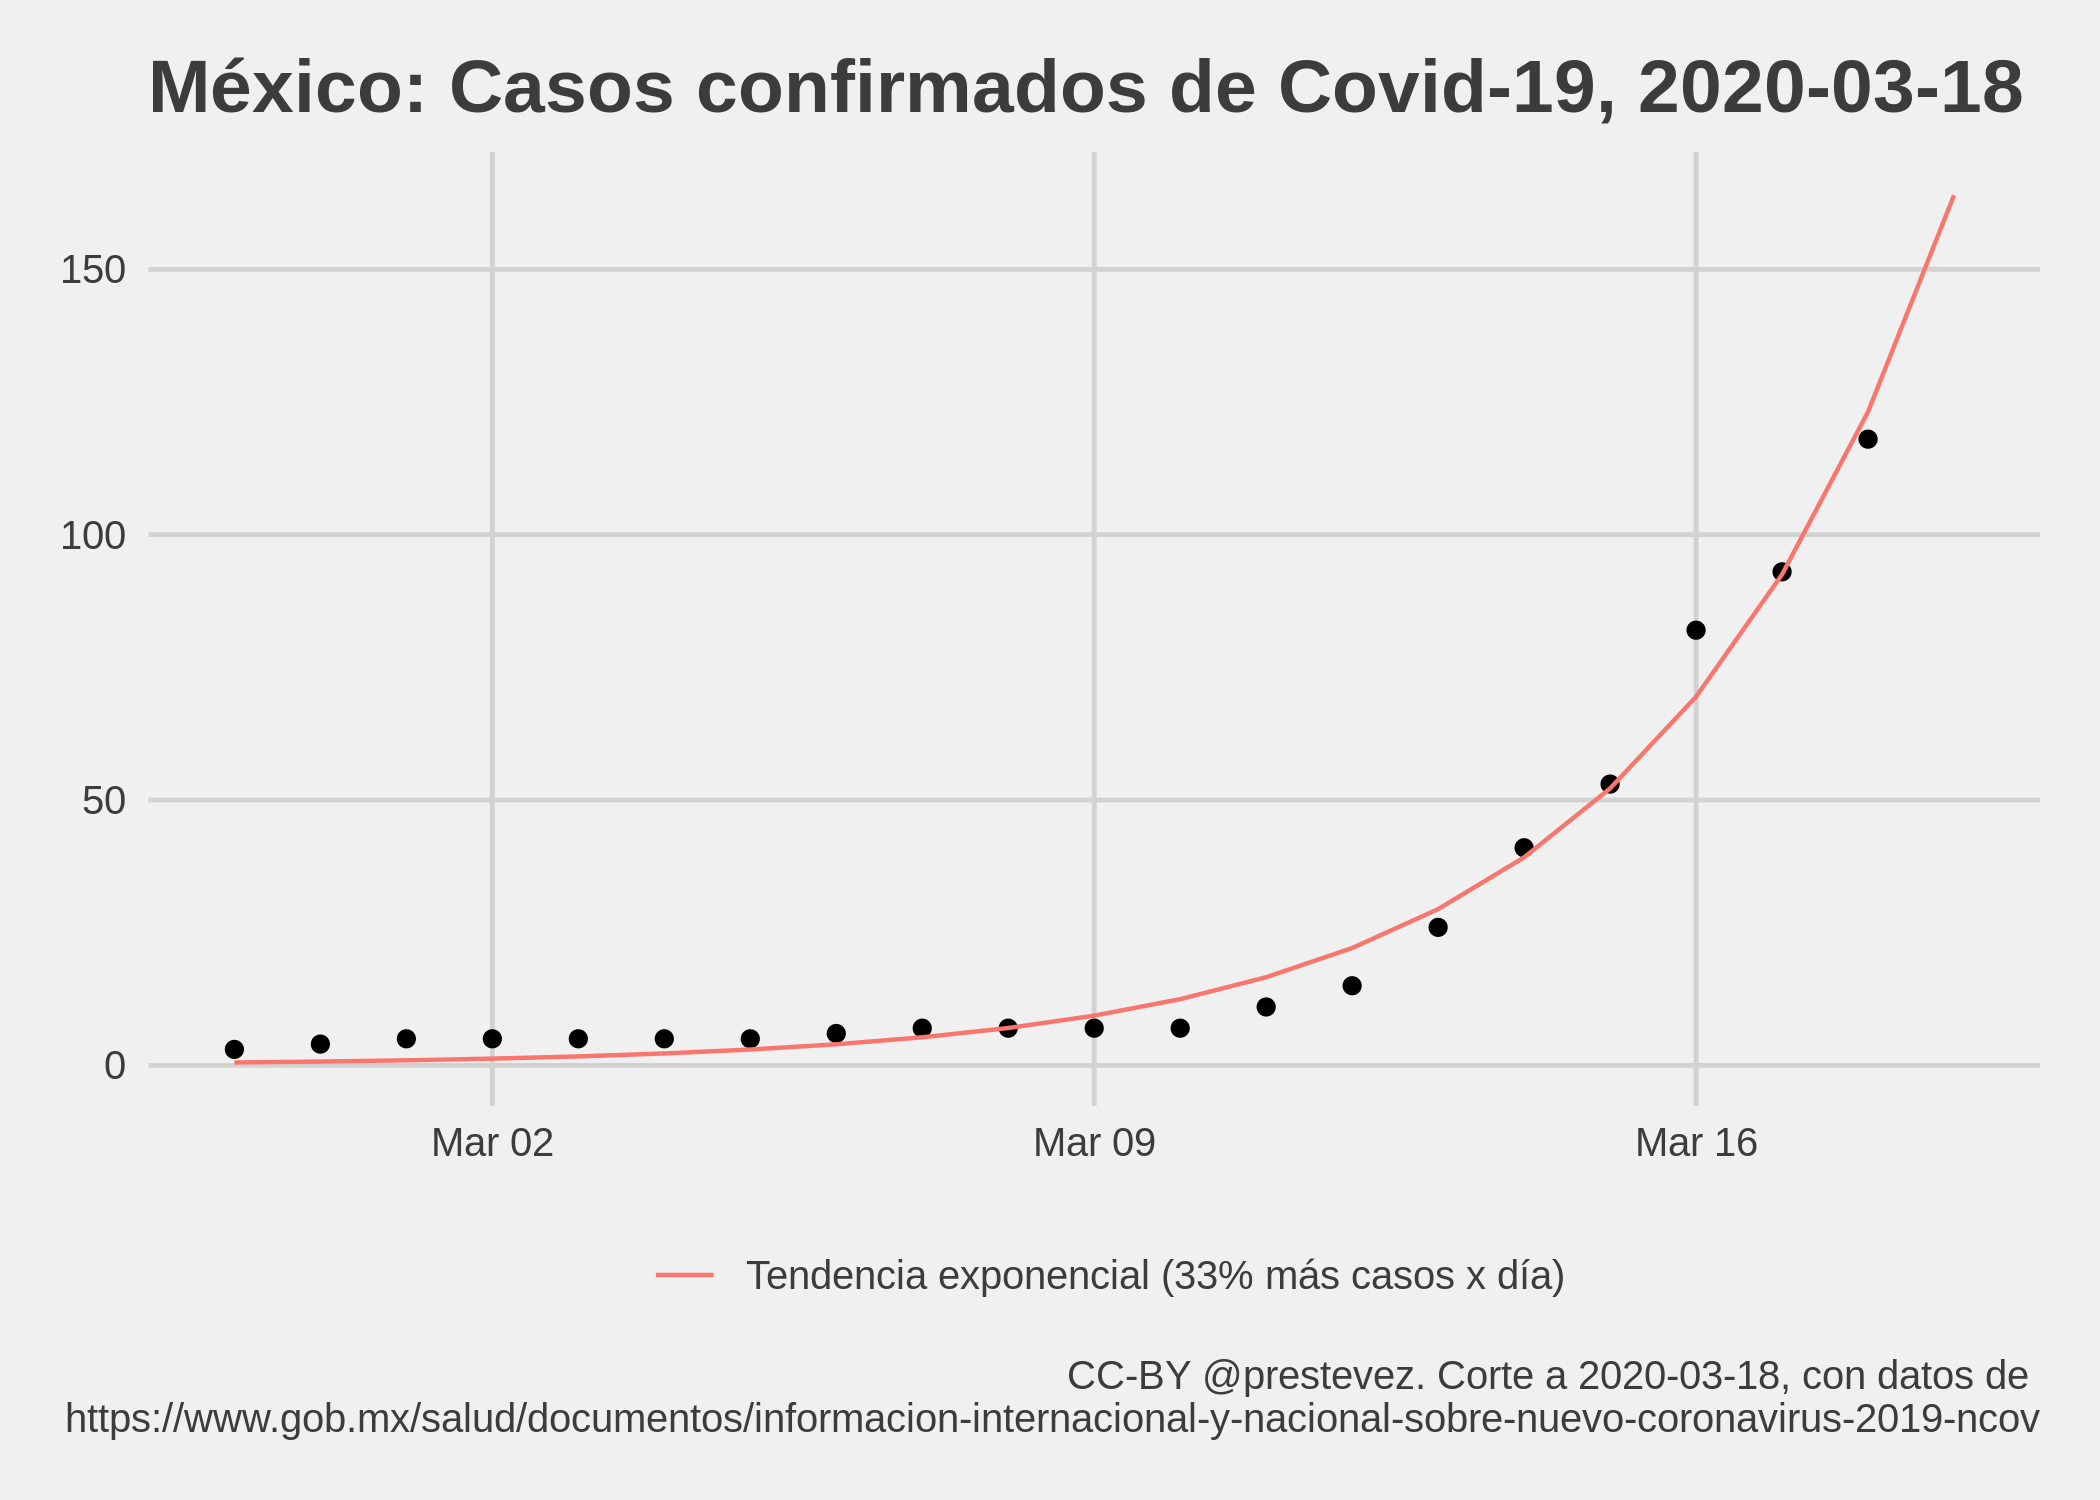
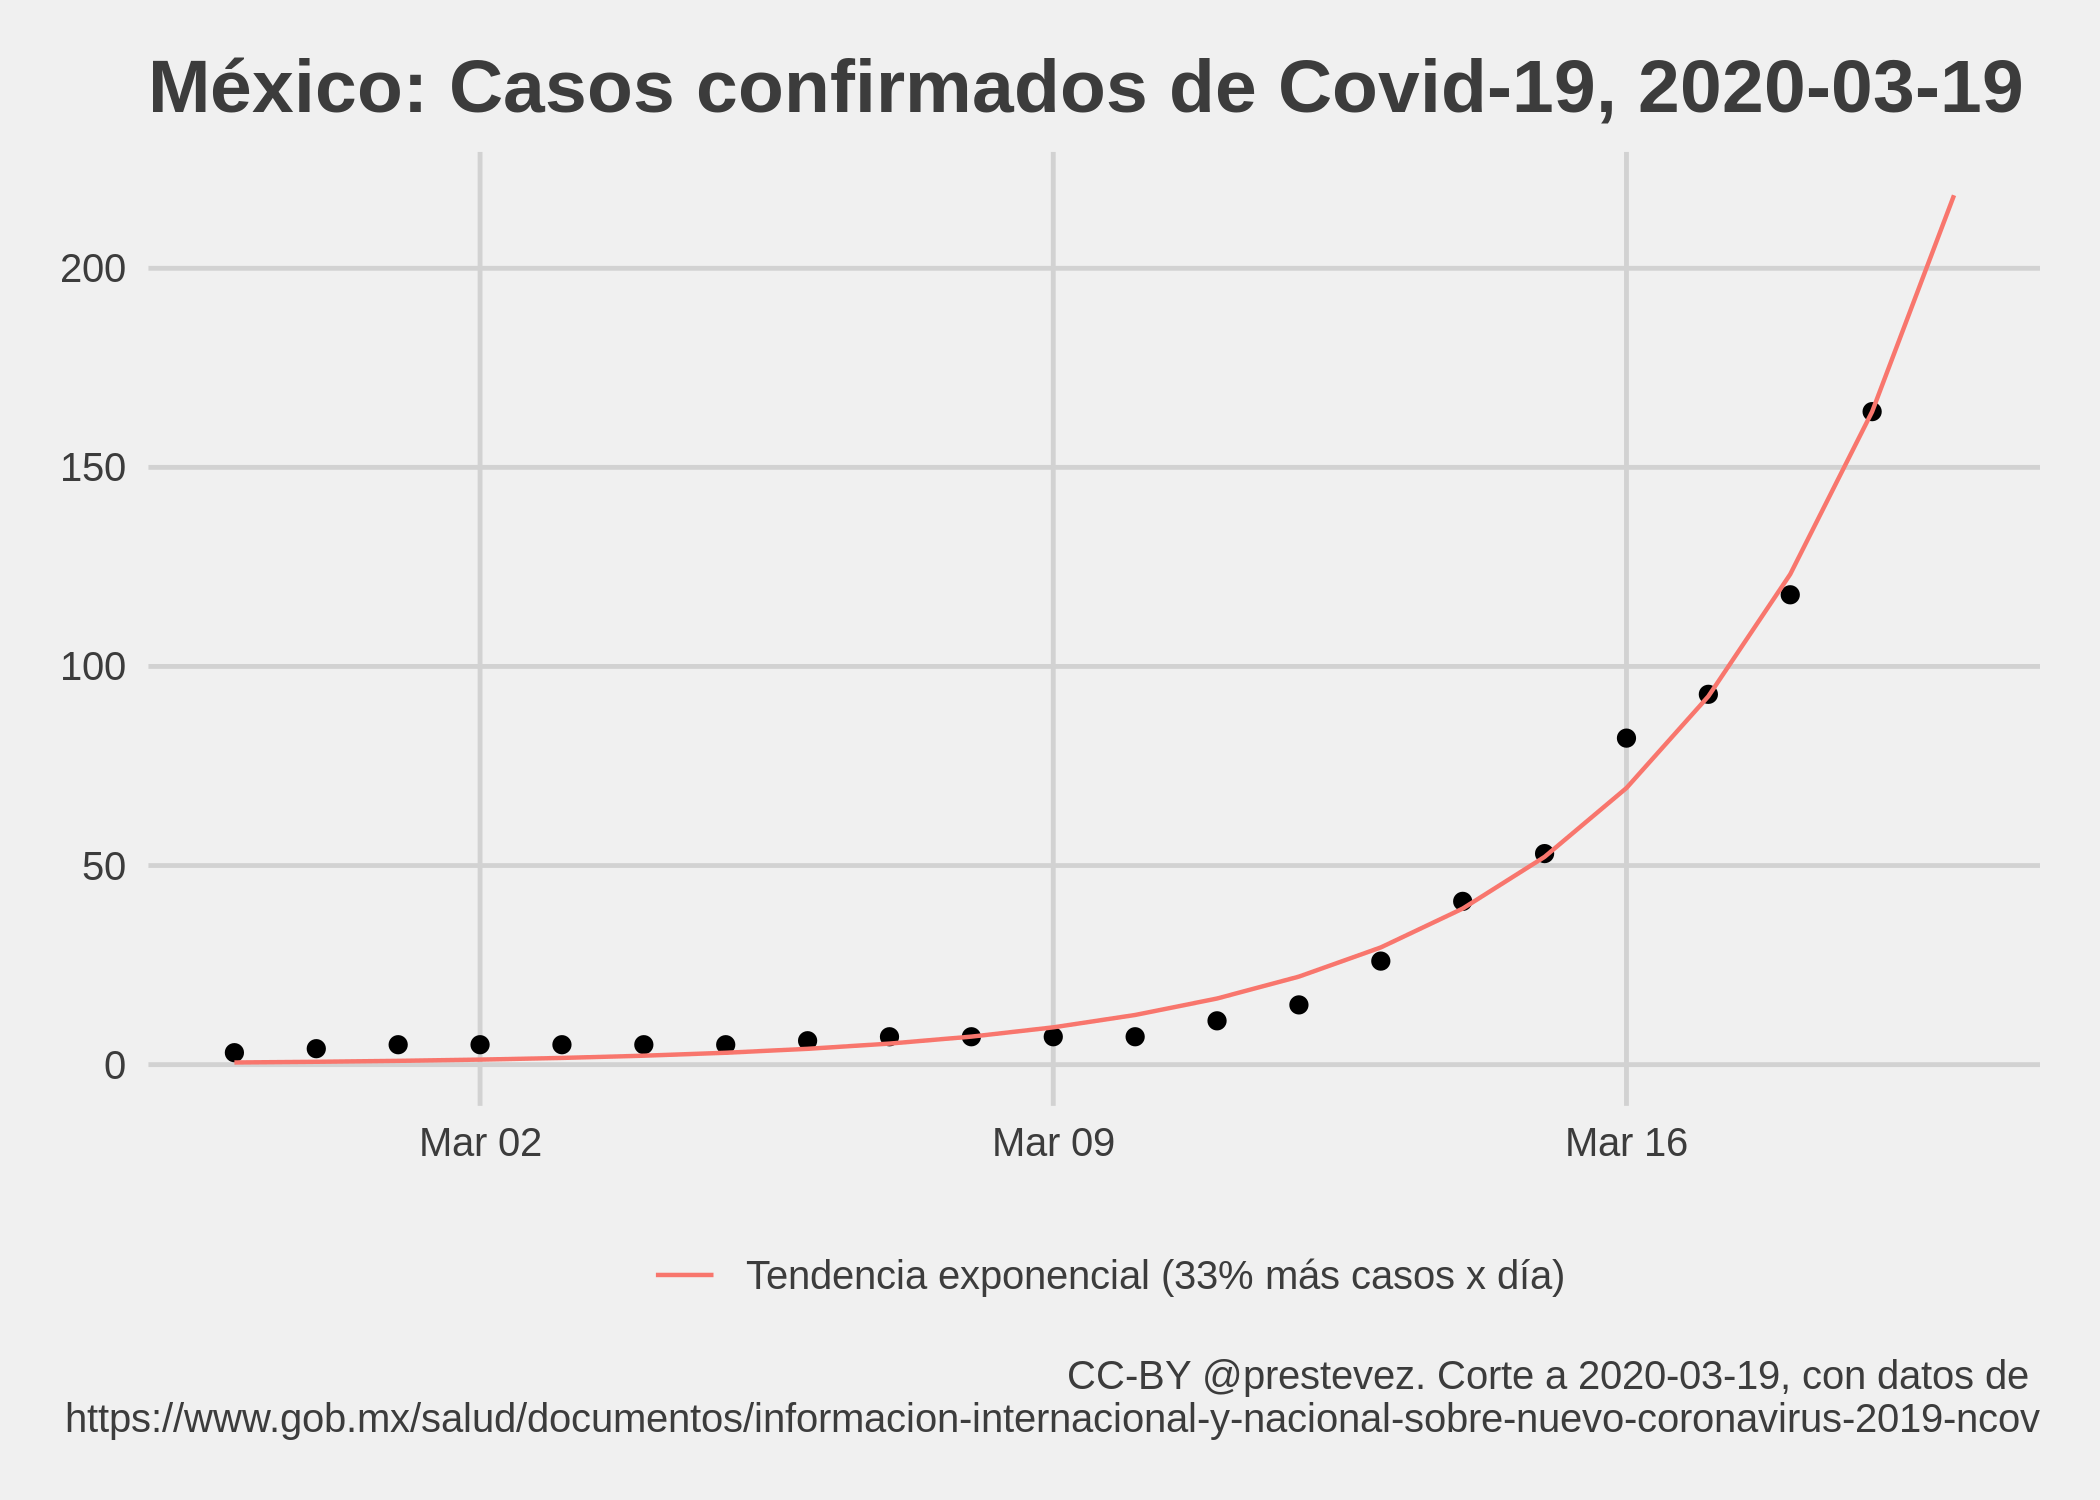
2020-03-19, update

diff --git a/README.md b/README.md
@@ -1,7 +1,7 @@
 Evolución de Covid-19 en México
 ================
 [Patricio R Estevez-Soto](https://twitter.com/prestevez).
-Actualizado: 2020-03-19 01:41:20 GMT
+Actualizado: 2020-03-20 01:12:03 GMT
 
 # Crecimiento de casos confirmados de Covid-19 en México
 
@@ -38,20 +38,20 @@ Parámetros del modelo predictivo:
     ## 
     ## Deviance Residuals: 
     ##    Min      1Q  Median      3Q     Max  
-    ## -7.112  -2.637   1.760   2.892  12.524  
+    ## -7.109  -2.367   1.716   2.761  12.522  
     ## 
     ## Coefficients:
     ##             Estimate Std. Error t value Pr(>|t|)    
-    ## (Intercept) -0.91097    0.27360   -3.33  0.00373 ** 
-    ## t            0.28622    0.01456   19.65  1.3e-13 ***
+    ## (Intercept) -0.91169    0.21058  -4.329 0.000361 ***
+    ## t            0.28626    0.01065  26.890  < 2e-16 ***
     ## ---
     ## Signif. codes:  0 '***' 0.001 '**' 0.01 '*' 0.05 '.' 0.1 ' ' 1
     ## 
-    ## (Dispersion parameter for gaussian family taken to be 21.89034)
+    ## (Dispersion parameter for gaussian family taken to be 20.7378)
     ## 
-    ##     Null deviance: 22439.75  on 19  degrees of freedom
-    ## Residual deviance:   394.02  on 18  degrees of freedom
-    ## AIC: 122.37
+    ##     Null deviance: 40774.57  on 20  degrees of freedom
+    ## Residual deviance:   394.02  on 19  degrees of freedom
+    ## AIC: 127.16
     ## 
     ## Number of Fisher Scoring iterations: 5
 
@@ -68,11 +68,14 @@ según el modelo del día anterior.
 | 2020-03-16 |         82 |      73.72 |    8.28 |
 | 2020-03-17 |         93 |     115.68 | \-22.68 |
 | 2020-03-18 |        118 |     134.77 | \-16.77 |
+| 2020-03-19 |        164 |     163.96 |    0.04 |
 
 # Casos esperados mañana
 
-Mañana se esperan **164** casos confirmados de Covid-19 si la tendencia
-observada hasta hoy se mantiene igual.
+Mañana se esperan **218** casos confirmados de Covid-19 si la tendencia
+observada hasta hoy se mantiene igual. Sin embargo, esta cifra muy
+probablemente esté equivocada, pues el modelo usado es extremadamente
+simple. El objetivo es tener una vaga noción de la cifra esperada.
 
 # Discusión
 
